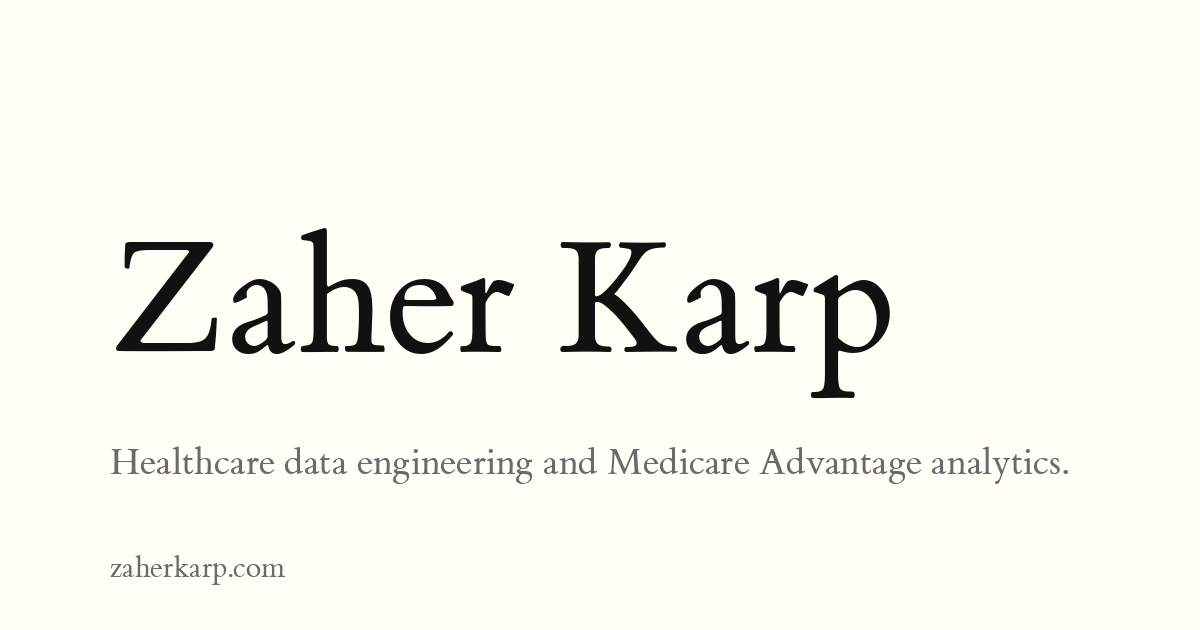
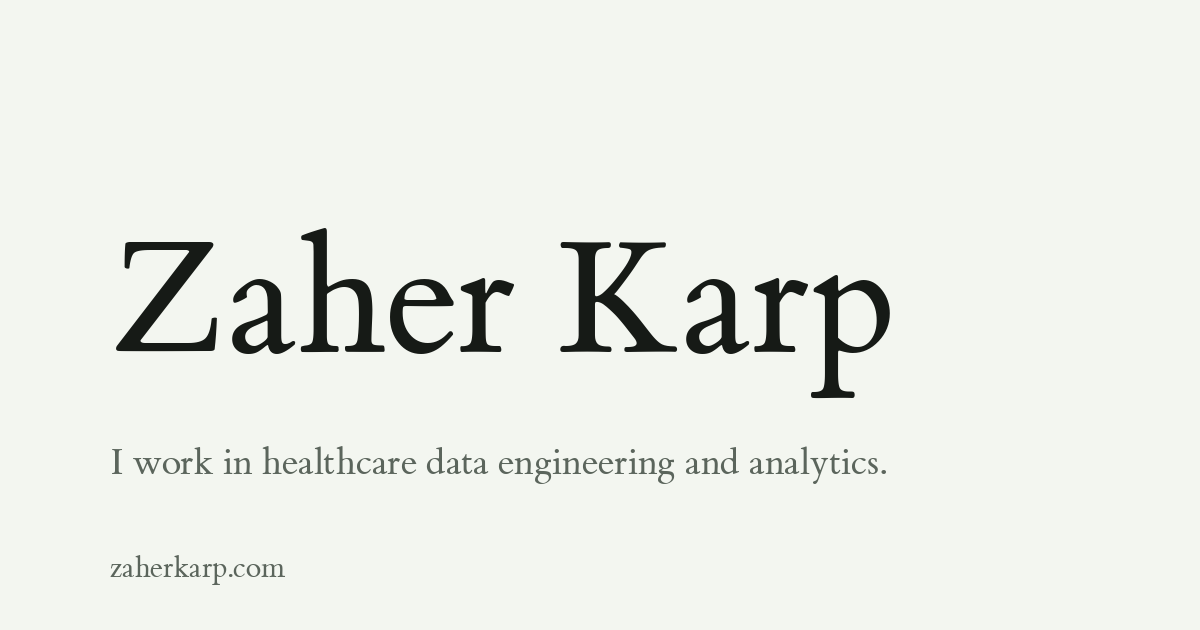
Rebuild the OG card, and source its palette instead of inlining it
The card carried the retired subtitle. Updating that surfaced a second,
larger problem: it also carried the wrong palette.

build_og.py inlined PAPER/INK/MUTED with the comment "design tokens are
inlined because this is a one-off renderer, not the canonical
declaration." Those values were Tufte cream and neutral grey, so the
social card has been painting the pre-2026-07-23 palette for months,
every time anyone shared a link. Nothing caught it: lint_palette only
inspects files carrying palette:* marker spans, and a Python renderer
has none.

So rather than swap in new literals that would drift again on the next
repalette, the script now reads src/content/palette.yaml for the light
bg/ink/muted roles. That makes this class of drift impossible here
instead of merely detectable, which is also why no new lint accompanies
it. Verified: the rebuilt card's background is exactly the palette's
light bg.

SUBTITLE now matches the homepage proposition, "I work in healthcare
data engineering and analytics."

Claude-Session: https://claude.ai/code/session_01KVRXF4o3iKPjeNsBGhZhUj

Changed region(s): [[0.0925, 0.6937, 0.8942, 0.7841]]

diff --git a/scripts/build_og.py b/scripts/build_og.py
@@ -6,33 +6,53 @@ Renders /og-default.png from a small composition rule. Run once locally
 when the card content changes; commit the resulting PNG. Not wired to
 CI, the card is essentially static.
 
-Design tokens are inlined because this is a one-off renderer, not the
-canonical declaration. Locked tokens live in CLAUDE.md §Palette.
+Colors are READ from src/content/palette.yaml, not inlined. They used to be
+inlined "because this is a one-off renderer", and they duly went stale: the
+card was still painting Tufte cream months after the site moved to the Lichen
+palette, and nothing caught it because lint_palette only inspects the CSS-ish
+files carrying palette:* marker spans. Reading the source makes that class of
+drift impossible here rather than merely detectable.
 
 Local dev:
-    pip install Pillow
+    pip install Pillow PyYAML
     python scripts/build_og.py
 """
 
 from pathlib import Path
 
+import yaml
 from PIL import Image, ImageDraw, ImageFont
 
 ROOT = Path(__file__).resolve().parent.parent
 OUT = ROOT / "og-default.png"
 FONT_DIR = Path(__file__).resolve().parent / "fonts" / "et-book"
 ROMAN = FONT_DIR / "et-book-roman-line-figures.ttf"
+PALETTE = ROOT / "src" / "content" / "palette.yaml"
 
-# Locked palette (CLAUDE.md §Palette). Light-mode tokens.
-PAPER = (255, 255, 248)
-INK = (17, 17, 17)
-MUTED = (106, 106, 106)
+
+def _rgb(hex_string: str) -> tuple:
+    """'#f3f6f0' -> (243, 246, 240)."""
+    h = hex_string.lstrip("#")
+    return tuple(int(h[i : i + 2], 16) for i in (0, 2, 4))
+
+
+def _light_tokens() -> dict:
+    """The screen light-mode roles, straight from the palette source."""
+    light = yaml.safe_load(PALETTE.read_text(encoding="utf-8"))["screen"]["light"]
+    return {role: _rgb(light[role]) for role in ("bg", "ink", "muted")}
+
+
+_T = _light_tokens()
+PAPER, INK, MUTED = _T["bg"], _T["ink"], _T["muted"]
 
 # Open Graph canonical size.
 W, H = 1200, 630
 
 NAME = "Zaher Karp"
-SUBTITLE = "Healthcare data engineering and Medicare Advantage analytics."
+# Matches the homepage proposition. The former category-label subtitle
+# ("Healthcare data engineering and Medicare Advantage analytics.") was
+# retired from the page on 2026-07-29; the card follows it.
+SUBTITLE = "I work in healthcare data engineering and analytics."
 DOMAIN = "zaherkarp.com"
 
 

diff --git a/CLAUDE.md b/CLAUDE.md
@@ -335,9 +335,8 @@ Known cost, accepted: the lede pushes `.split-hero` down ~160px and the career
 band with it, so the timeline sits further below the fold. That compounds the
 §6 writing-column-length item in `docs/homepage-iteration-2026-07-26.md`.
 
-Not updated with this change: `scripts/build_og.py` still renders the retired
-subtitle onto `og-default.png`. It is a manual, Pillow-dependent pipeline, so
-the social card and the page now disagree until someone regenerates it.
+`scripts/build_og.py` and `og-default.png` were updated to match in the same
+pass, so the social card and the page agree.
 
 (Prior Timeline Split, superseded: nav, nameplate, three-column split-hero
 [writing / vertical rail / project scorecard], three-card teaser row. Earlier
@@ -1641,6 +1640,15 @@ How the generator maps roles to each file (`TARGETS` in build_palette.py):
   - Single-mode spans: `palette:print` for the PDF templates' accent and the
     index.html `@media print` accent (kind `accent_only`); `palette:start`
     (XML) for the favicon fill.
+
+`scripts/build_og.py` READS `palette.yaml` directly (light `bg`/`ink`/`muted`)
+rather than carrying its own copy. It used to inline them "because this is a
+one-off renderer" and duly went stale, painting Tufte cream onto the social card
+for months after the Lichen move, invisible to `lint_palette` because that only
+inspects files carrying `palette:*` marker spans. Reading the source makes the
+drift impossible rather than merely detectable, which is why no lint was added
+for it. Re-run `python scripts/build_og.py` after a palette change and commit
+the PNG; it is not wired to CI.
 
 Deliberately NOT pipeline-managed (documented in the YAML header):
   - blog.css's Solarized code-block palette (separate, mode-symmetric system).
